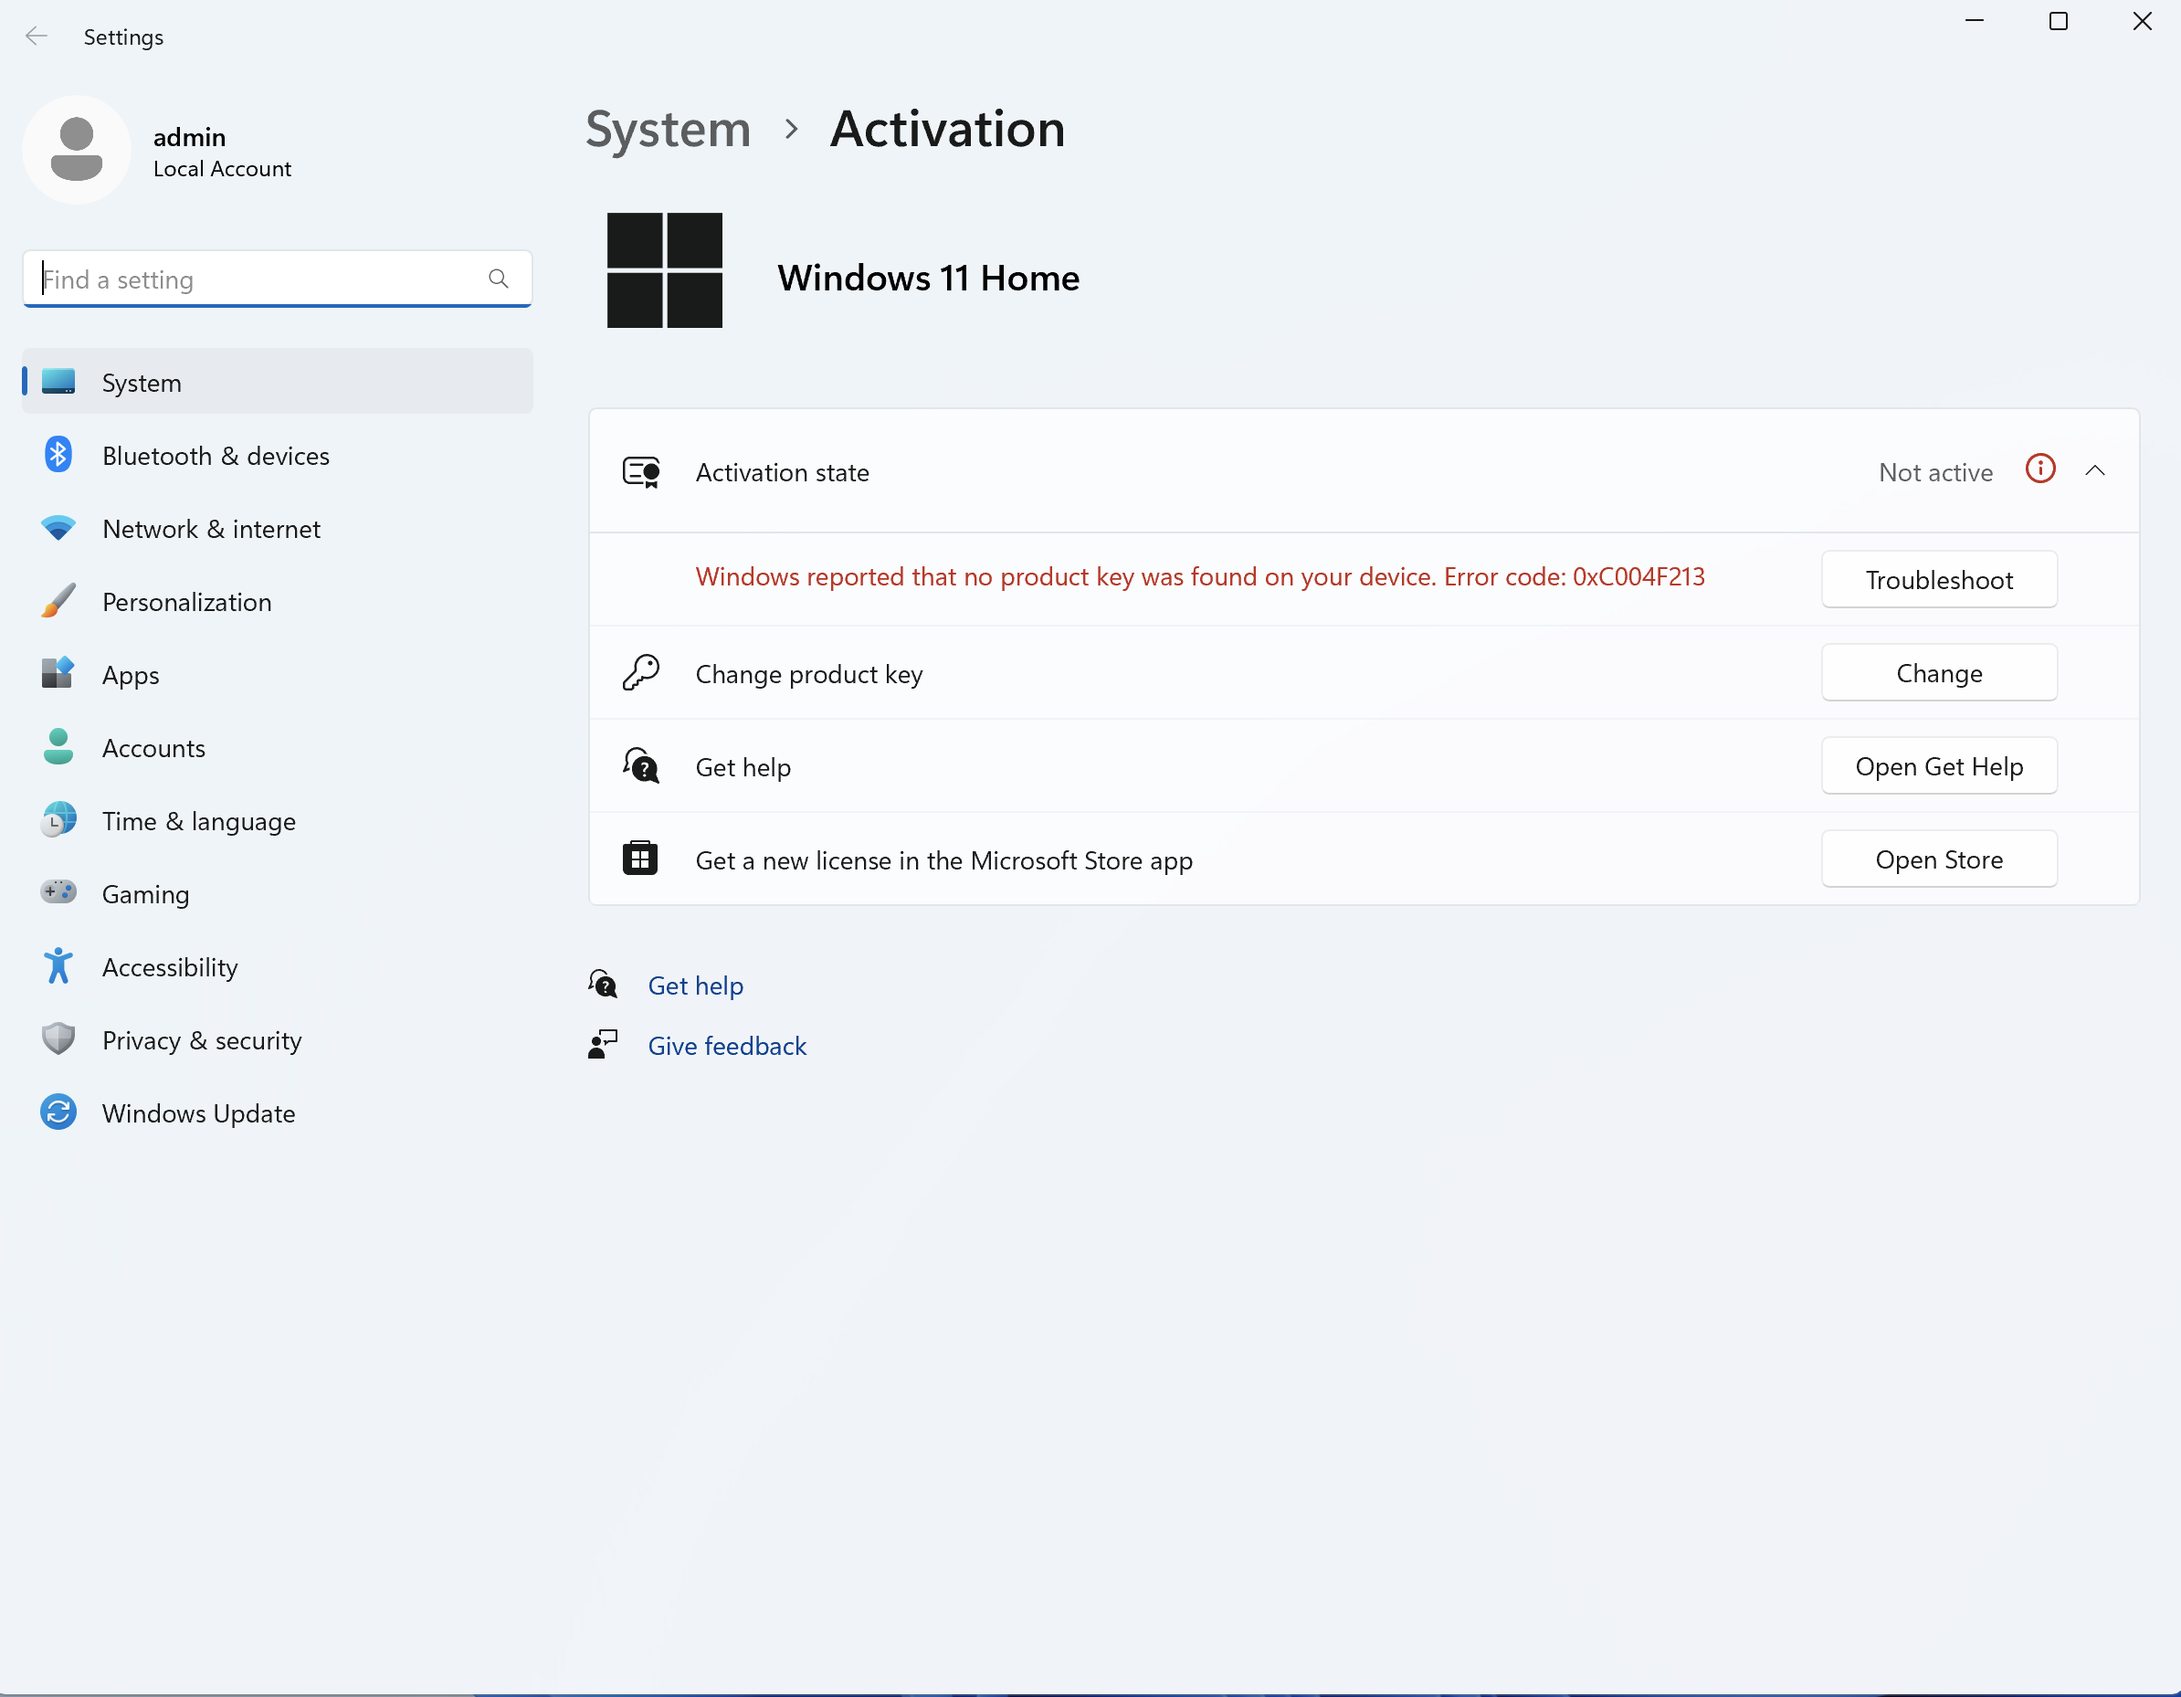
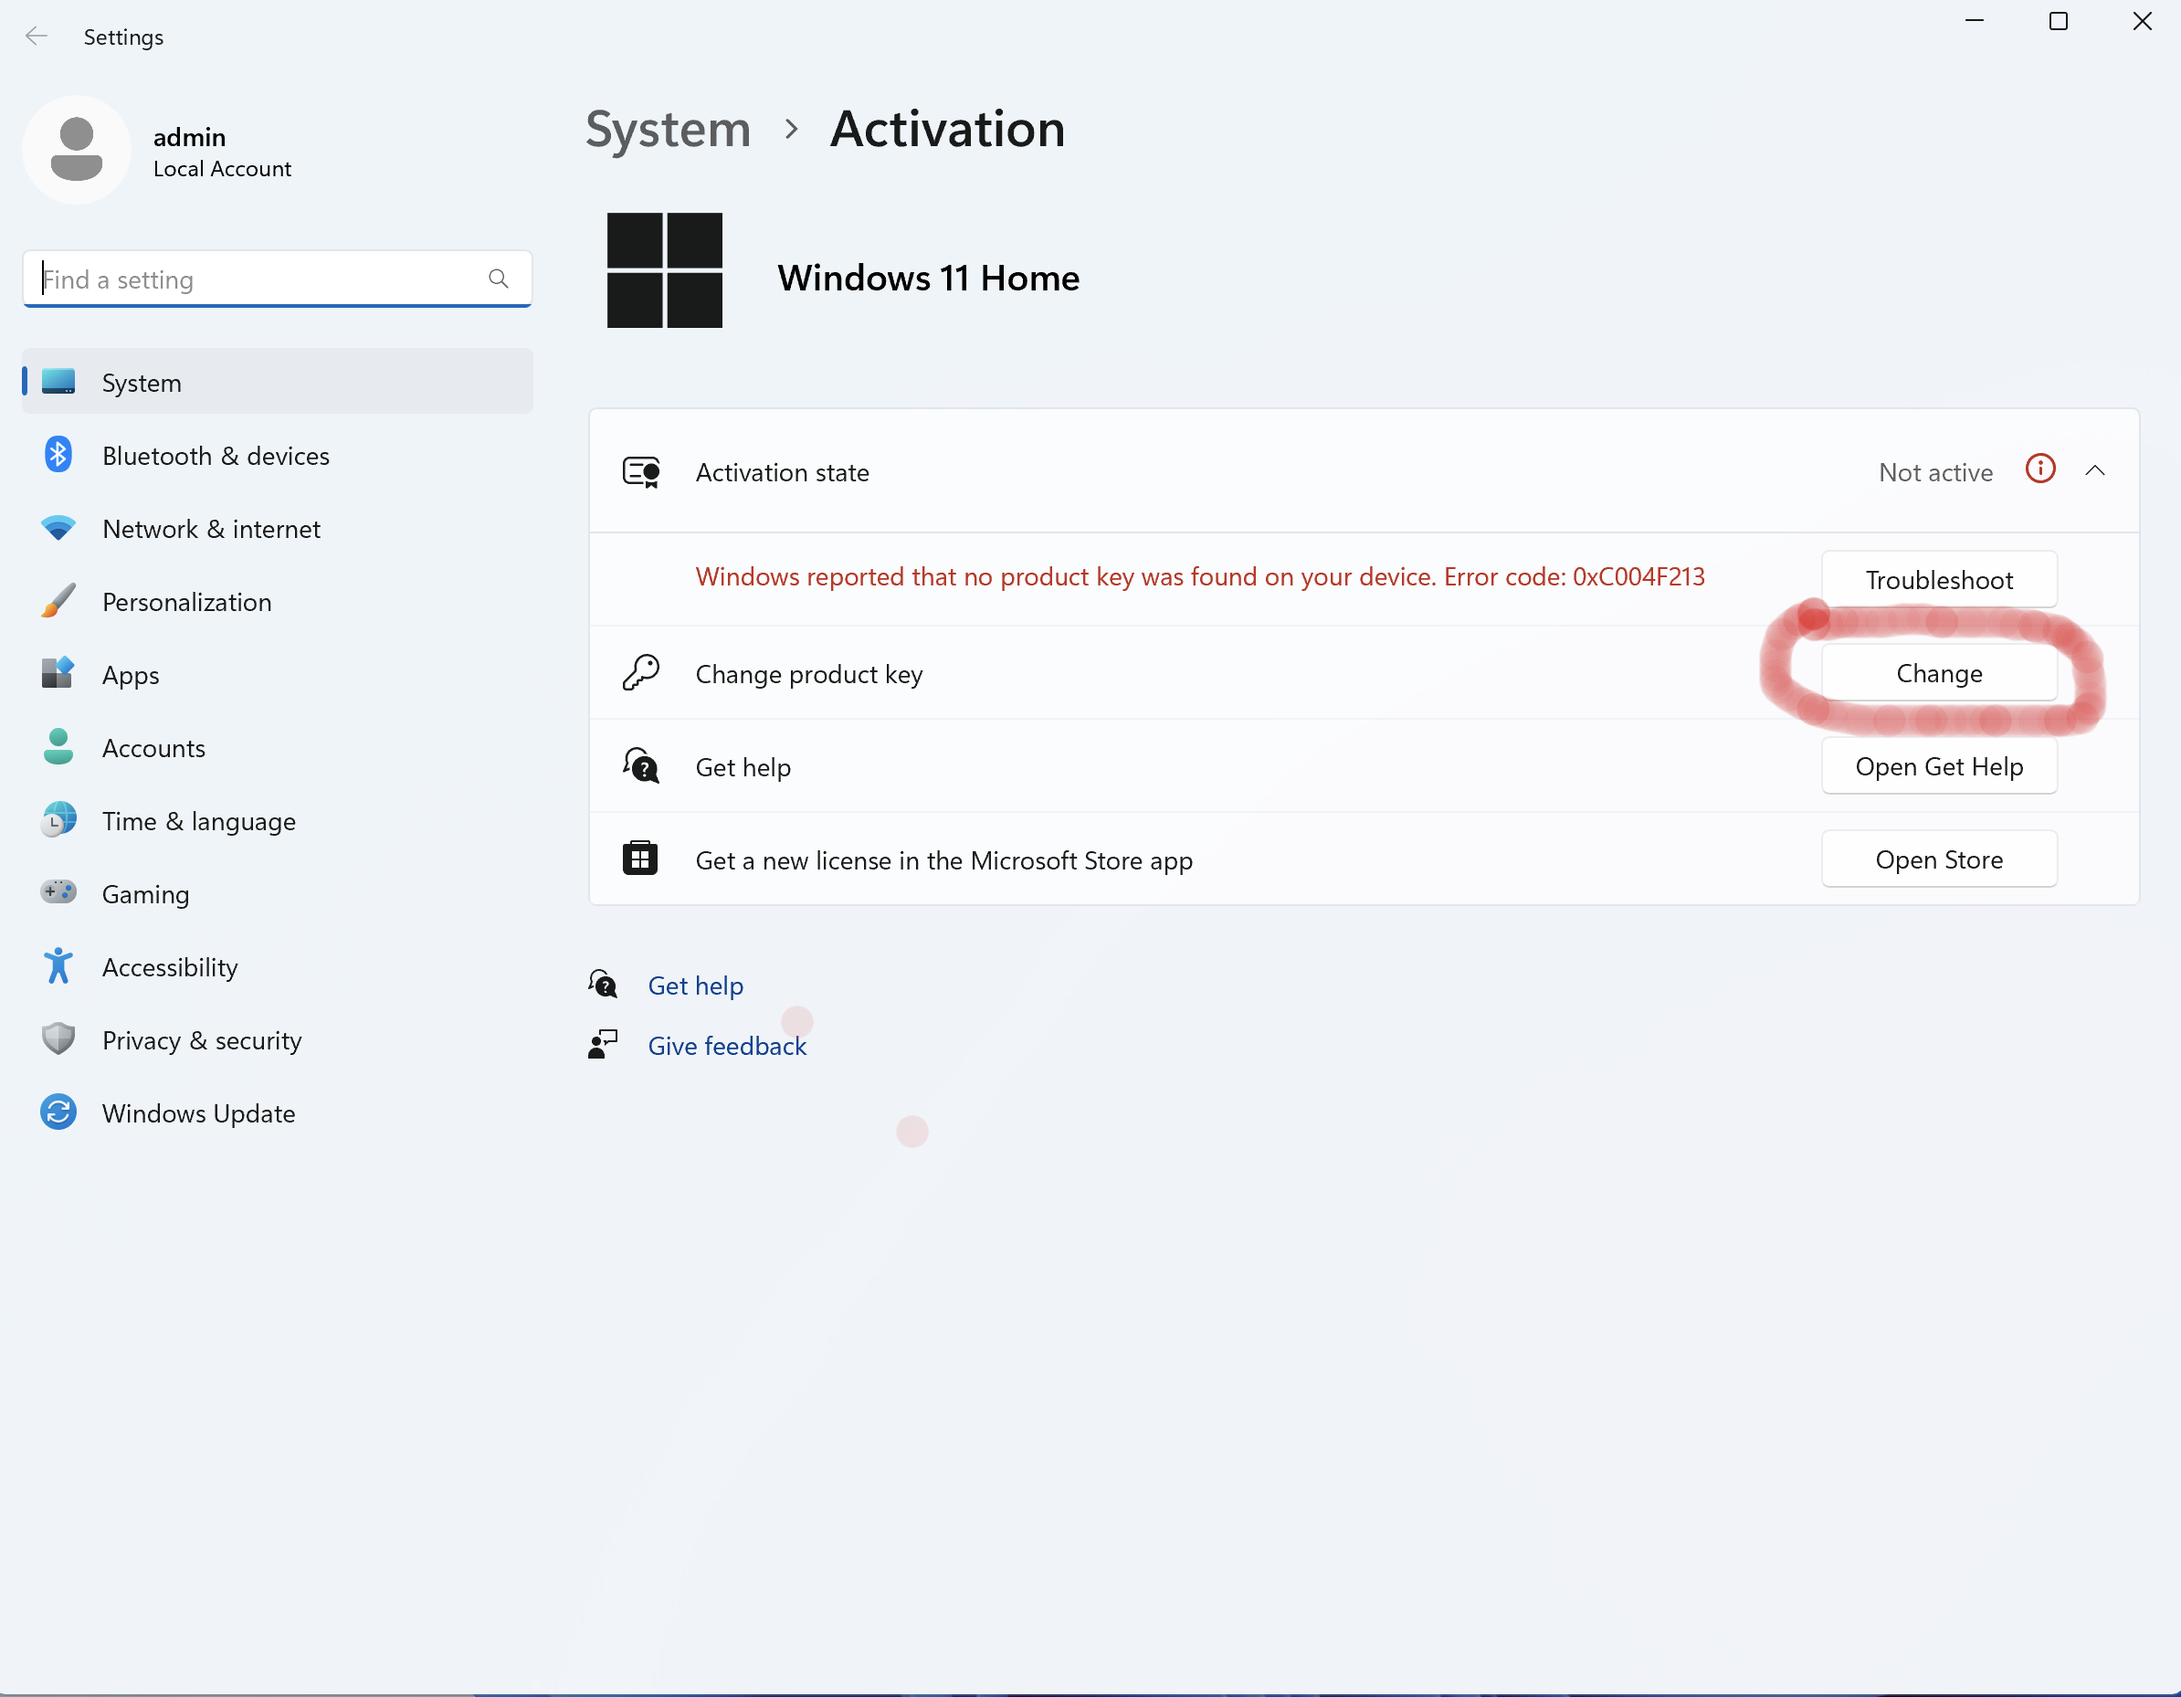
adding new images to lesson

Changed region(s): [[0.8057, 0.3434, 0.9916, 0.437]]

diff --git a/docs/courses/02-Os_Basics/lessons/windows-labs.md b/docs/courses/02-Os_Basics/lessons/windows-labs.md
@@ -89,9 +89,11 @@ If your printer doesn't appear, click "Add manually." A pop-up window will prese
 
 2. From the settings application choose "System" from the left hand navigation and scroll down to the activation selection
 
-![Settings](settings-system.png)
+![Settings](settings-activation.png)
 
 3. Click on the change button to change the product key and enter the produce key provided by your instructor
+
+![Windows Activation](windows-activation.png)
 
 4. From this point follow along with your instructor to upgrade your verions of Windows 11 to Enterprise.
 
